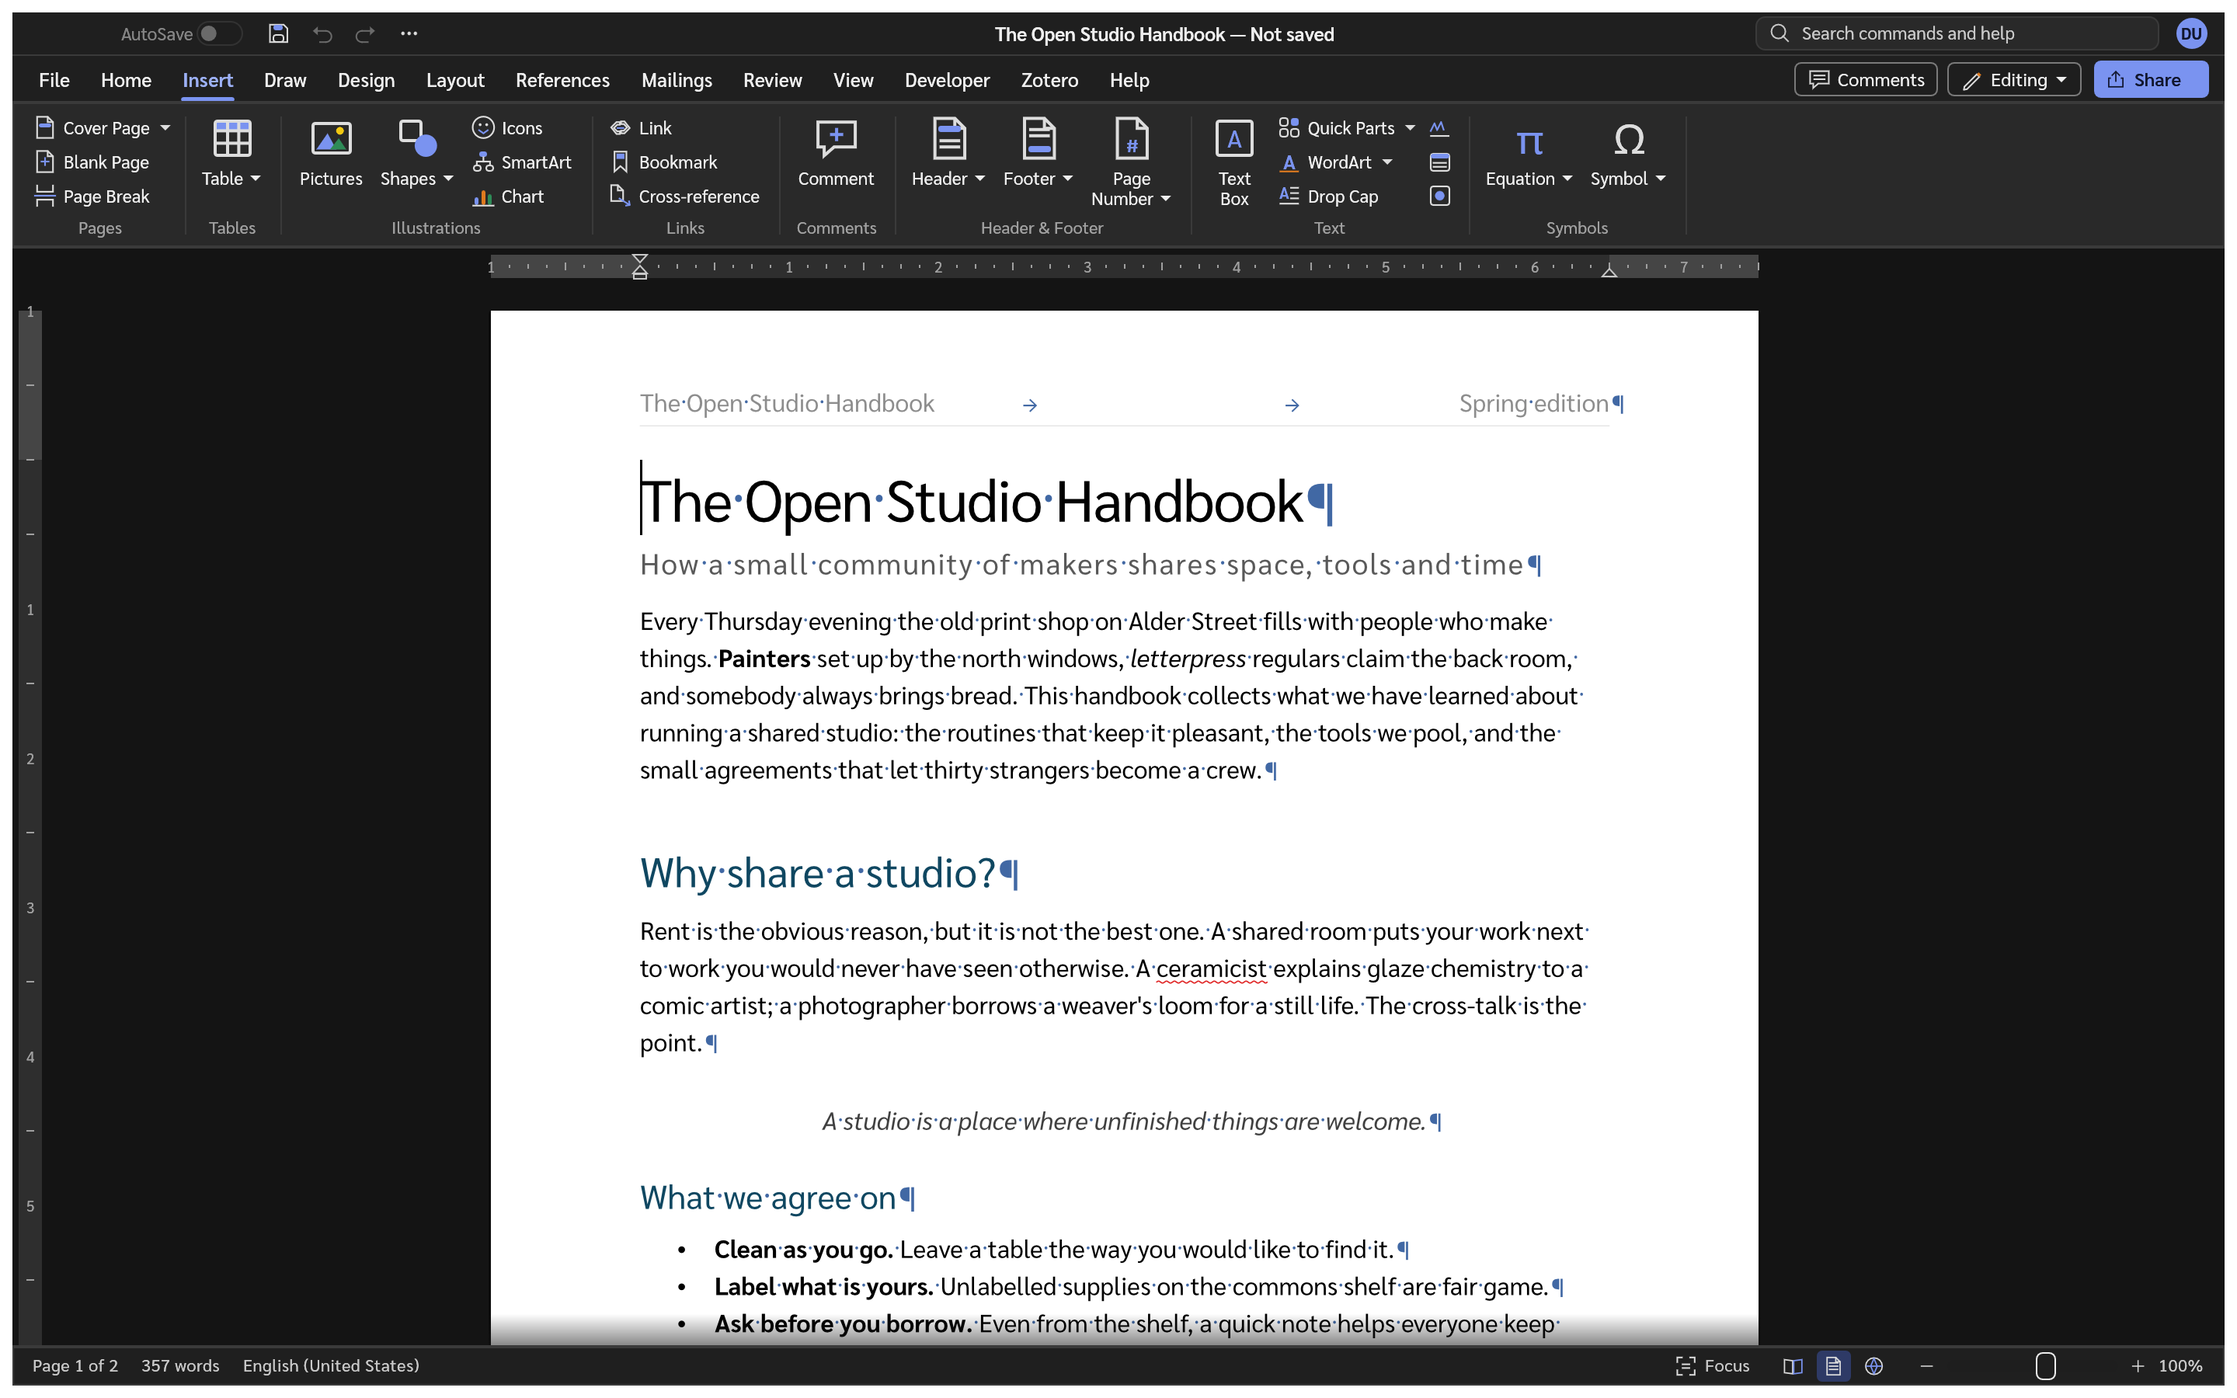
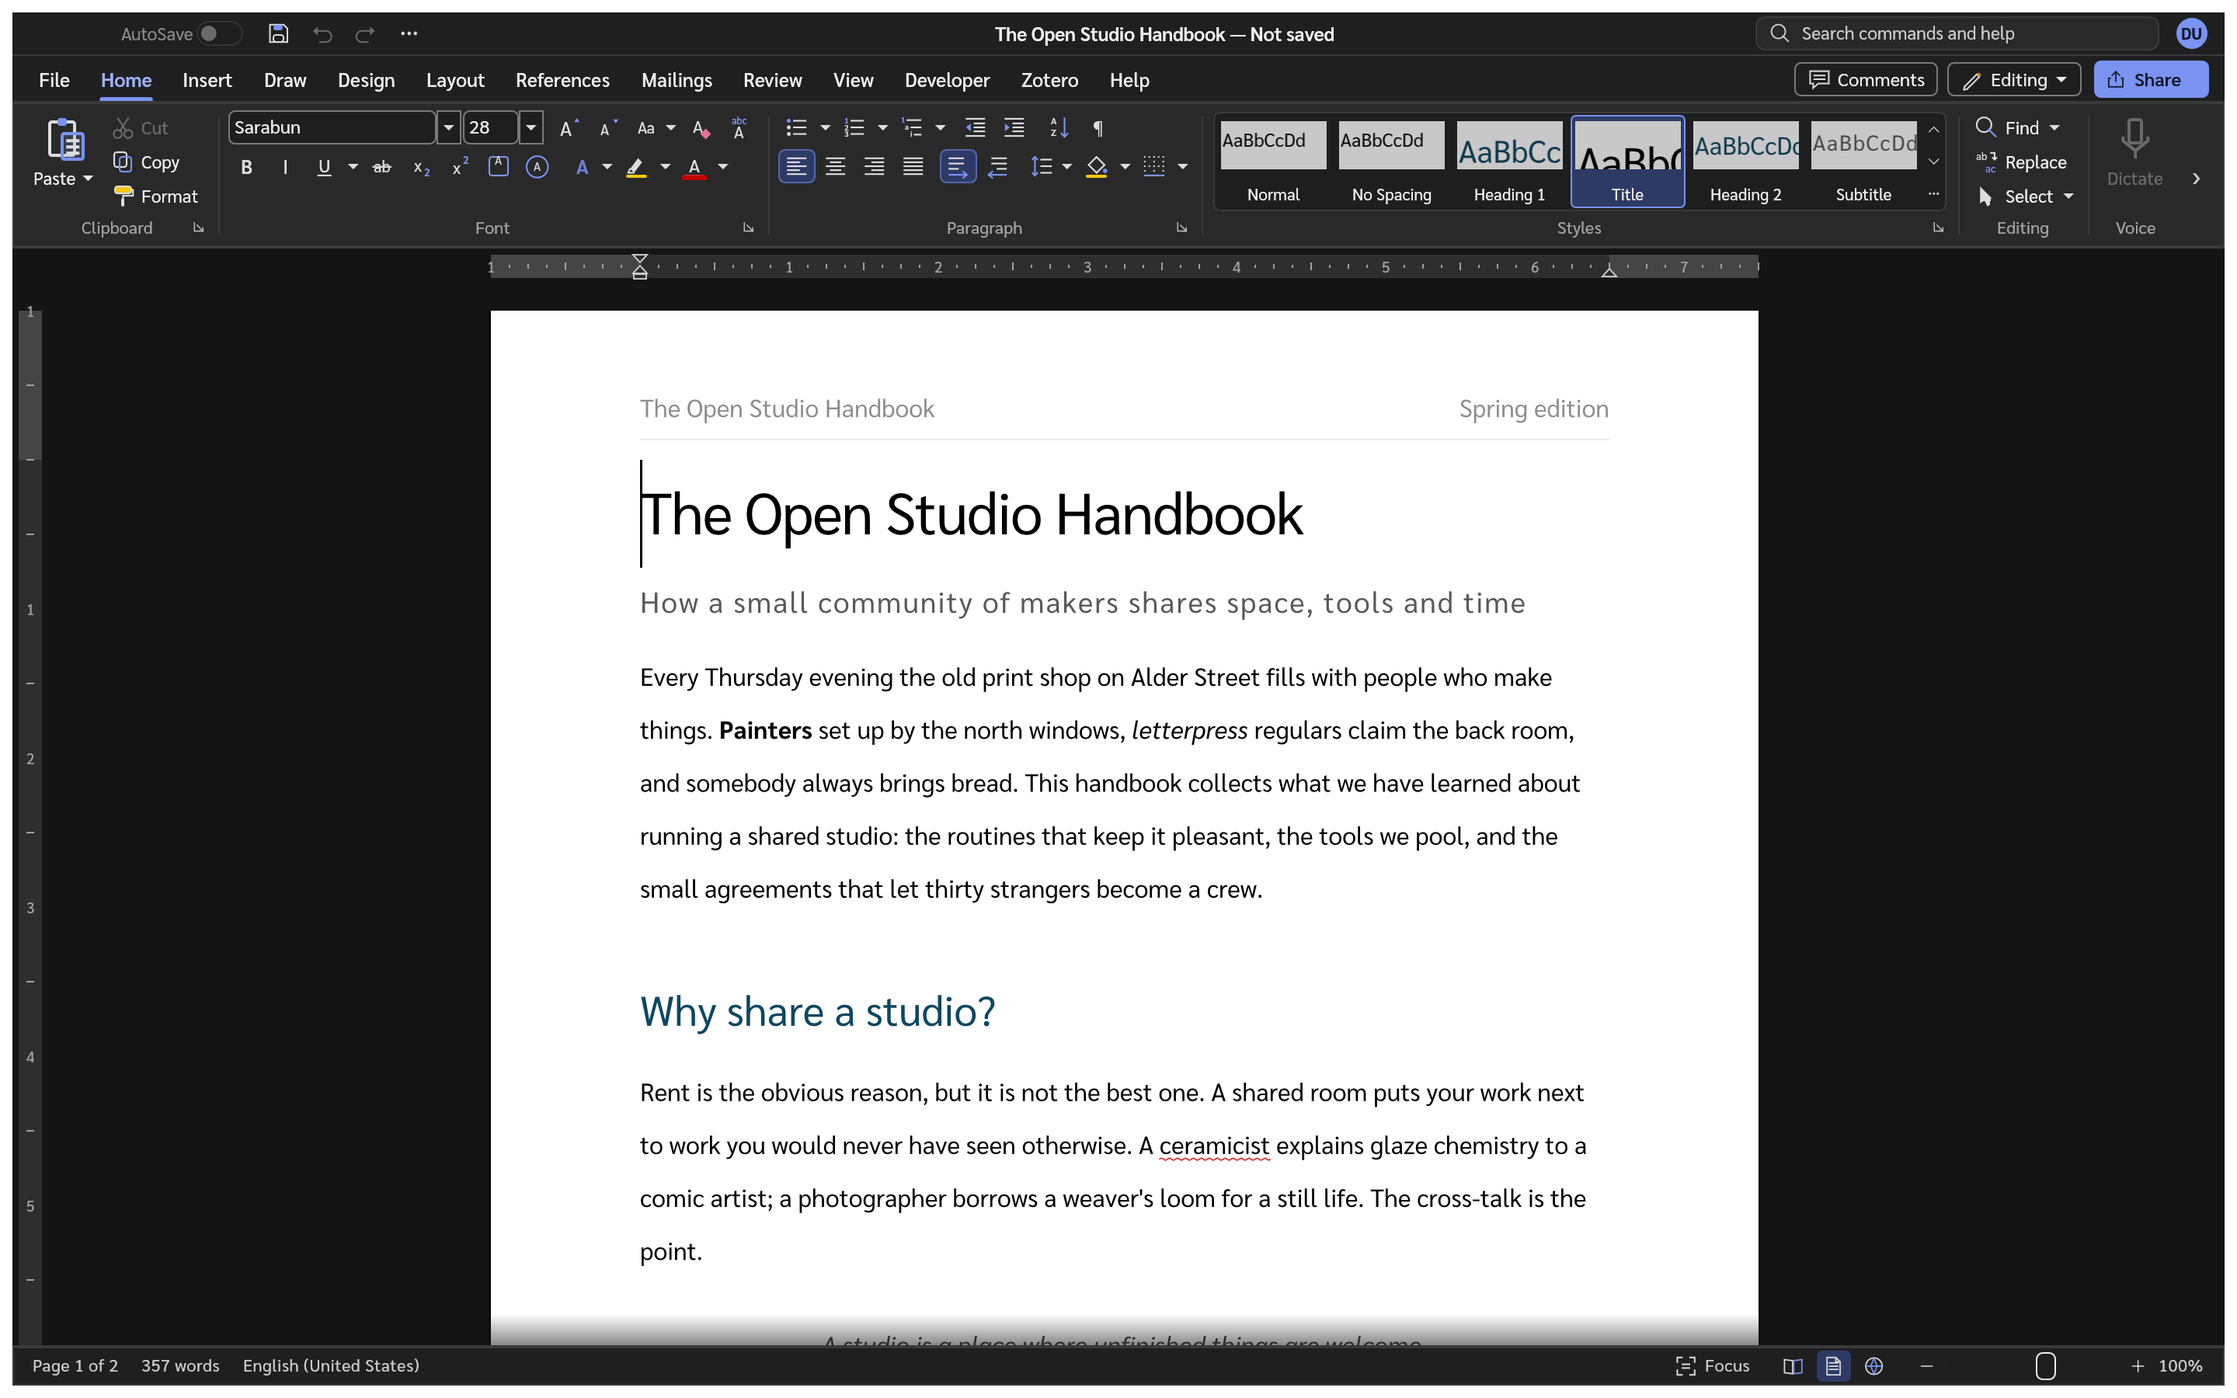
README with 1.1.0 screenshots; ignore plugin logs
Claude-Session: https://claude.ai/code/session_014KqbwA4pm3b1QYZ2F7uRfw

diff --git a/CHANGELOG.md b/CHANGELOG.md
@@ -22,6 +22,8 @@
   - `ROADMAP.md`: แก้แถว Releases และย้ายแถว Progress log วันที่ 2026-10-11 สองแถวที่อยู่ระหว่างหัวตารางกับบรรทัด `|---|---|` ลงไปใต้หัวตาราง เพราะเดิมตารางนี้แสดงผลไม่ได้
   - ข้อจำกัด: GitHub ยังไม่มี tag `v1.0.0` (1.0.0 build ผ่าน Actions แต่ไม่ได้ tag) ลิงก์ `[1.1.0]` ท้ายไฟล์จึงชี้ไปหน้า Release แทนหน้าเปรียบเทียบ ส่วนลิงก์ `[1.0.0]` เดิมเปิดไม่ได้และคงไว้ตามกฎไม่แก้ประวัติของเวอร์ชันที่ออกไปแล้ว
   - ตรวจสอบ: workflow `windows-x64-installer.yml` บน `main` ที่คอมมิต 307a25b build MSI และ zip สำเร็จ; หลังตั้งเลข `cargo xtask version` แสดง 1.1.0
+- **`.gitignore` ไม่ติดตามไฟล์ log ของ plugin** (`.anchor/`, `.harnesskit/`, `.viberevert/`)
+  - เหตุผล: plugin ของ session สร้างไดเรกทอรีเหล่านี้ไว้ในเครื่อง ทำแบบเดียวกับ `.simple-workflow/` ที่มีอยู่แล้ว ไม่มีผลต่อโปรแกรม
 - **ระยะบรรทัดแบบ Word บน Windows** (`crates/fonts/src/word.rs` `line_metrics`)
   - ระยะบรรทัดแบบ Single ใช้ค่าจาก OS/2 `usWinAscent` + `usWinDescent` บวก external leading (ส่วนของ line gap ใน hhea ที่ค่า win ยังไม่ครอบคลุม) ไว้เหนือ ascent ซึ่งเป็นวิธีที่ Word บน Windows วัด (GDI)
   - แต่ก่อนใช้ค่า hhea แบบ Word บน Mac ทำให้ Sarabun มีระยะบรรทัด 1.30 em แต่ Word บน Windows ใช้ 1.853 em เอกสารเดียวกันจึงยาวไม่เท่ากัน
@@ -39,6 +41,16 @@
 
 ### เพิ่ม
 
+- **`README.md` พร้อมภาพหน้าจอของ 1.1.0** (`README.md`, `docs/images/hero.png`, `docs/images/thai.png`, `docs/images/dark.png`)
+  - เหตุผล: เจ้าของ repo สั่งให้ทำ README พร้อมภาพหน้าจอหลังออกเวอร์ชัน (README เดิมถูกลบที่คอมมิต `3cccba7`)
+  - เนื้อหา: Doc4Me คืออะไร สถานะ alpha สิ่งที่ภาษาไทยได้ใน 1.1.0 ที่ดาวน์โหลด (หน้า Releases) วิธี build คำสั่ง CLI และ MCP สัญญาอนุญาต และข้อความว่าไม่เกี่ยวข้องกับ Microsoft
+  - ภาพหน้าจอถ่ายใหม่ด้วย `ui_shot` ขนาด 1440×900 pt ที่ 2×
+    - `hero.png`: เอกสารตัวอย่าง หน้าจอภาษาอังกฤษ
+    - `dark.png`: เอกสารตัวอย่างในธีมมืด
+    - `thai.png`: หน้าจอภาษาไทยกับเอกสารภาษาไทยที่เขียนขึ้นสำหรับ repo นี้ ภาษาเอกสาร th-TH ซูม 90% เห็นระยะบรรทัดแบบ Word บน Windows และคำว่า อนุญาติ ที่ตัวตรวจตัวสะกดไทยขีดเส้นใต้
+    - ภาพอื่นใน `docs/images` ยังเป็นภาพของ 1.0.0
+  - ผู้ใช้: portable zip ของ Windows มี `README.md` ด้วย เพราะ `packaging/windows/package.ps1` คัดลอกไฟล์นี้เมื่อมีอยู่ ไม่กระทบไฟล์ .docx
+  - ตรวจสอบ: เปิดดูภาพทั้งสามหลังถ่าย; สคริปต์ตรวจลิงก์ยืนยันว่าลิงก์และภาพใน README ชี้ไฟล์ที่มีอยู่ครบ 15 รายการ; ทุกข้อความใน README เทียบกับโค้ดแล้ว (เช่น รูปแบบไฟล์ที่อ่านและเขียนได้ตาม `crates/formats/src/lib.rs`)
 - **แยกคำอังกฤษที่ใช้ร่วมกันสองที่ให้แปลไทยต่างกัน** (`crates/ui-egui/src/i18n/catalog.rs` `CONTEXTS`, `th.tsv`, `widgets.rs` `small`, `ribbon.rs`, `dialogs_refs.rs`, `options.rs`, `docs/localization-th.md`)
   - เหตุผล: Editor, Display, Open, Arabic มีสองความหมายแต่แปลได้คำเดียว (เช่น Editor ในช่องบรรณานุกรมอ่านว่า "ตัวช่วยตรวจแก้")
   - ผู้ใช้: ภาษาไทยเห็น บรรณาธิการ (ช่องบรรณานุกรม), แยกบรรทัด (ปุ่มสมการ), กว้าง (ระยะห่างย่อหน้า), อารบิก (ตัวเลือกตัวเลข); ภาษาอื่นไม่เปลี่ยน เพราะ context ที่ไม่มีรายการจะใช้คำแปลปกติ; ไม่กระทบเอกสาร

diff --git a/handoff.md b/handoff.md
@@ -4,12 +4,19 @@
 
 ## สถานะล่าสุด
 
-- **ออกเวอร์ชัน 1.1.0** (2026-10-21)
-  - ตั้งเลขด้วย `cargo xtask version set 1.1.0` แล้วย้าย `[Unreleased]` ไปเป็น `## [1.1.0] - 2026-10-21` พร้อมลิงก์ท้ายไฟล์ (GitHub ไม่มี tag `v1.0.0` ลิงก์ `[1.1.0]` จึงชี้ไปหน้า Release)
-  - push tag `v1.1.0` แล้ว workflow `windows-x64-installer.yml` จะ build MSI และ zip และสร้าง GitHub Release `Doc4Me v1.1.0` โดยใช้เนื้อหาหัวข้อ `[1.1.0]` เป็นบันทึกประจำรุ่น
-  - ถ้า Release ยังไม่ขึ้น ให้ดูผลของ run ที่ tag `v1.1.0` ในแท็บ Actions
-- **งานถัดไป: ภาพหน้าจอสำหรับ README** (ผู้ใช้สั่งไว้ให้ทำหลังออกเวอร์ชัน)
-  - ตอนนี้ยังไม่มี `README.md` ที่ราก repo
+- **ออกเวอร์ชัน 1.1.0: รอ push tag** (2026-10-21)
+  - คอมมิต `Release 1.1.0` (260459d) และคอมมิต README อยู่บน `main` แล้ว
+  - push tag จาก session นี้ไม่ได้ เพราะ git proxy ตอบ `HTTP 403` เฉพาะการ push tag (push สาขา `main` ได้ปกติ) และเครื่องมือ GitHub ที่มีสร้าง tag หรือ Release ไม่ได้
+  - ให้เจ้าของ repo tag คอมมิตล่าสุดบน `main` ที่มี README:
+    `git fetch origin && git tag -a v1.1.0 origin/main -m "Doc4Me 1.1.0" && git push origin v1.1.0`
+  - อย่าสร้าง Release ผ่านหน้าเว็บ GitHub เอง เพราะ job `release` ของ workflow จะรัน `gh release create v1.1.0` แล้วล้มถ้ามี Release นั้นอยู่แล้ว
+  - หลัง push tag workflow `windows-x64-installer.yml` จะ build MSI และ zip และสร้าง Release `Doc4Me v1.1.0` โดยใช้หัวข้อ `[1.1.0]` ใน CHANGELOG เป็นบันทึกประจำรุ่น
+  - GitHub ยังไม่มี tag `v1.0.0` เลย (1.0.0 build ผ่าน Actions บน `main` เท่านั้น) ลิงก์ `[1.1.0]` ท้าย CHANGELOG จึงชี้ไปหน้า Release
+- **README และภาพหน้าจอ**: ทำแล้ว อยู่ในหัวข้อ `[1.1.0]`
+  - `README.md` ที่ราก repo กับภาพ `docs/images/hero.png`, `thai.png`, `dark.png` ที่ถ่ายจาก 1.1.0
+  - ภาพอื่นใน `docs/images` (backstage, design, layout, references, review) ยังเป็นของ 1.0.0
+  - สคริปต์ถ่ายภาพ (`ui_shot`) ไม่ได้เก็บใน repo วิธีถ่ายดูหัวข้อ "ถ่ายภาพหน้าจอ" ด้านล่าง
+- **สิ่งที่สังเกตเห็นแต่ยังไม่แก้**: ในธีมมืด แถบของตัวเลื่อนซูมที่มุมขวาล่างมองไม่เห็น เห็นแค่ปุ่มเลื่อน
 
 ## สิ่งที่อยู่ใน 1.1.0
 
@@ -45,6 +52,13 @@
   - เช่น `ROADMAP.md` เคยเปลี่ยนไป 439 บรรทัด
   - ถ้าจะแก้ไฟล์ที่มีตาราง ให้แก้ผ่านสคริปต์หรือ `sed` แล้วตรวจ `git diff --stat` ทุกครั้ง
 - hook ห้ามรัน Python แบบ inline ใน Bash ให้เขียนสคริปต์เป็นไฟล์ก่อนแล้วค่อยรัน
+
+## ถ่ายภาพหน้าจอ
+
+- `cargo build -p doc4me-ui-egui --example ui_shot` แล้วรัน `target/debug/examples/ui_shot script.jsonl` (รูปแบบสคริปต์ดูหัวไฟล์ `crates/ui-egui/examples/ui_shot.rs`)
+- container ไม่มี GPU ต้องติดตั้ง Vulkan แบบซอฟต์แวร์ก่อน: `apt-get update && apt-get install -y mesa-vulkan-drivers`
+  - ถ้าไม่ติดตั้งจะล้มด้วย `No adapter found`
+- คำสั่งที่ใช้สร้างภาพ `thai.png`: `ui.language` (`th`), `review.language` (`th-TH`, `default: true`), `styles.apply`, `text.insert` (`raw: true`), `text.newParagraph`, `view.zoomOut` และ `ui.key` Home พร้อม `cmd: true` เพื่อกลับไปต้นเอกสาร
 
 ## วิธีตรวจก่อน commit (ตามกฎใน CLAUDE.md)
 

diff --git a/README.md b/README.md
@@ -1,0 +1,64 @@
+# Doc4Me
+
+Doc4Me is a clean-room, open-source word processor written in Rust. It aims for complete parity
+with Microsoft Word, then goes further on speed, openness and agent control: every feature is a
+command that scripts and AI agents can run, over a local control channel or MCP.
+
+It is in **alpha**: see [ROADMAP.md](ROADMAP.md) for what works today and what is left.
+
+![Doc4Me with the built-in sample document](docs/images/hero.png)
+
+## ภาษาไทย
+
+Doc4Me 1.1.0 มีหน้าจอภาษาไทยครบทุกเมนู ใช้ฟอนต์สารบรรณ (Sarabun) เป็นฟอนต์หลัก ตัดคำไทยด้วยพจนานุกรม
+มีตัวตรวจตัวสะกดไทยและเลขลำดับไทย ระยะบรรทัดวัดแบบเดียวกับ Word บน Windows และเอกสารที่ใช้
+TH Sarabun New จะแสดงขนาดเท่าต้นฉบับแม้เครื่องไม่มีฟอนต์นั้น
+
+![หน้าจอภาษาไทยของ Doc4Me กับเอกสารภาษาไทย](docs/images/thai.png)
+
+## Download
+
+Windows x64 builds (an MSI installer and a portable zip) are on the
+[Releases](https://github.com/chatraweechai/doc4me/releases) page. They are not code-signed yet, so
+Windows SmartScreen may ask before it runs them. The MSI installs over earlier Doc4Me versions.
+
+On macOS, Linux and BSD, build it from source (below). Packaging scripts for macOS, Linux and the
+web build are in [`packaging/`](packaging/).
+
+## Highlights
+
+- Opens and saves `.docx`, RTF, ODT, HTML, Markdown, LaTeX and plain text; reads `.doc`; exports
+  PDF.
+- A Word-style ribbon, styles, lists, tables, equations, SmartArt, charts, comments and tracked
+  changes, references and citations (with Zotero), mail merge and Reading Mode.
+- Interface in English, Thai, Russian, Hungarian, Turkish, Italian and other languages.
+- Light and dark themes; in the dark theme the page stays white.
+- `doc4me-cli` converts and edits documents without a window, and `doc4me-cli mcp` serves every
+  command to AI agents ([docs/mcp.md](docs/mcp.md)).
+
+![Doc4Me in the dark theme](docs/images/dark.png)
+
+## Build from source
+
+Install Rust 1.90 or newer, then:
+
+```sh
+cargo run --release -p doc4me                 # the app
+cargo run --release -p doc4me -- --sample     # the app with the sample document
+cargo run --release -p doc4me-cli -- convert in.docx out.pdf
+```
+
+Before sending a change, run `cargo xtask ci` (format, clippy, tests, assets, layering and the
+WebAssembly build). How the code is organised: [docs/architecture.md](docs/architecture.md);
+rules for contributors and agents: [AGENTS.md](AGENTS.md); releases:
+[docs/releasing.md](docs/releasing.md); what changed: [CHANGELOG.md](CHANGELOG.md).
+
+## Licence
+
+Doc4Me is licensed under either of [MIT](LICENSE-MIT) or [Apache-2.0](LICENSE-APACHE), at your
+option. The bundled fonts are under the SIL Open Font License and the Thai word-break data under
+the [Unicode licence](LICENSE-UNICODE); see [NOTICE](NOTICE) and [ATTRIBUTION.md](ATTRIBUTION.md)
+for every third-party component.
+
+Doc4Me is an independent project, not affiliated with or endorsed by Microsoft. It contains no
+Microsoft icons, images, templates or other assets. The screenshots above are of Doc4Me itself.
